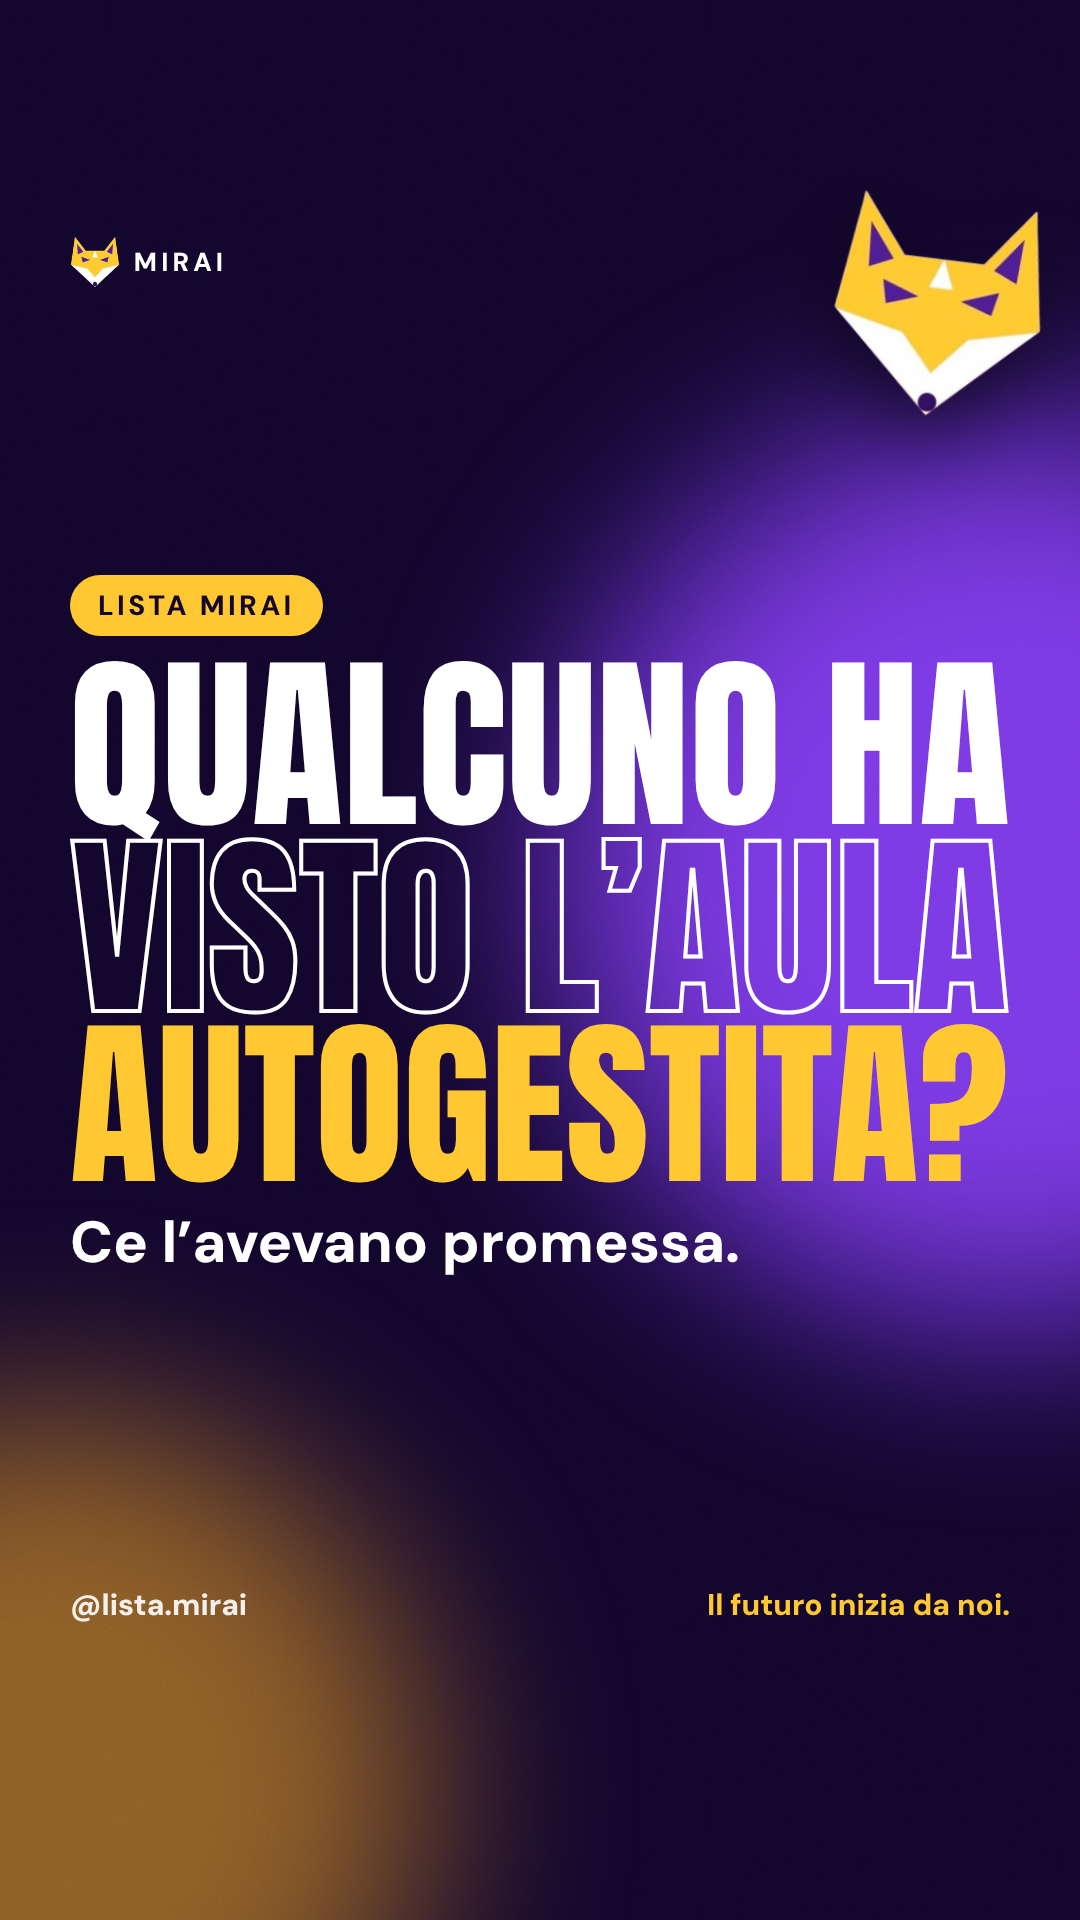
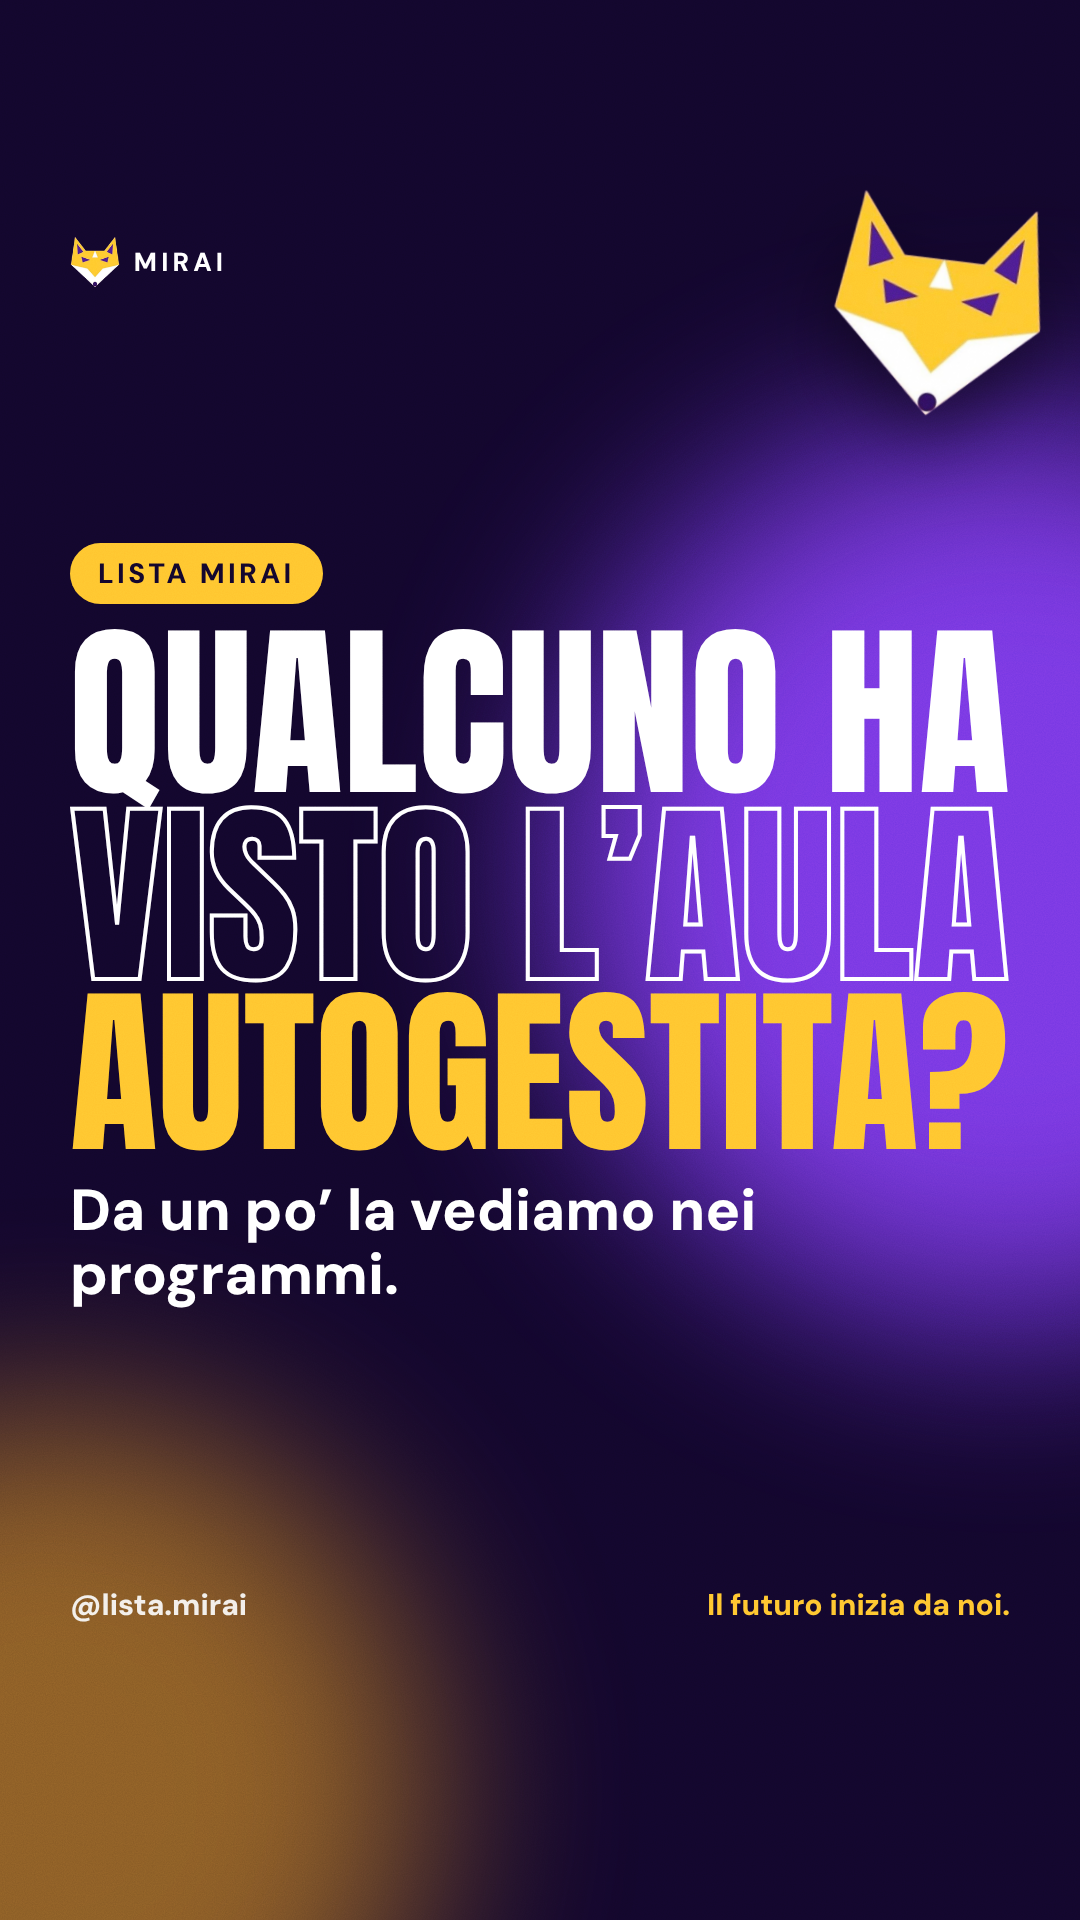
Storia aula autogestita: nuova riga sotto il titolo
Claude-Session: https://claude.ai/code/session_01R2EF8p8tCb9WtiTgwavMfk

Changed region(s): [[0.0611, 0.2812, 0.9472, 0.6875]]

diff --git a/social/storie/build.js b/social/storie/build.js
@@ -29,7 +29,7 @@ const S = [
  { k:P, id:'08-chi-parla-chi-fa', kicker:'Lista Mirai', lines:[['Chi parla.','o'],['Chi fa.','g']], sub:'Indovina chi siamo. 😉', tape:'Chi parla • Chi fa • Chi parla • Chi fa' },
  { k:P, id:'09-non-i-migliori', kicker:'Lista Mirai', lines:[['Non diciamo','w'],['che siamo','w'],['i migliori.','o']], sub:'Lo dicono i 16 progetti.', sticker:'Fatti, non parole 💜' },
  { k:P, id:'10-due-domande', kicker:'Lista Mirai', lines:[['Fatevi','w'],['due','o'],['domande.','g']], sub:'Poi guardate i nostri 16 progetti.', tape:'Servivamo noi • Servivamo noi', fox:'br' },
- { k:P, id:'11-aula-autogestita', kicker:'Lista Mirai', lines:[['Qualcuno ha','w'],['visto l’aula','o'],['autogestita?','g']], sub:'Ce l’avevano promessa.', fox:'br' },
+ { k:P, id:'11-aula-autogestita', kicker:'Lista Mirai', lines:[['Qualcuno ha','w'],['visto l’aula','o'],['autogestita?','g']], sub:'Da un po’ la vediamo nei programmi.', fox:'br' },
 ];
 const blobs = [
  '.b1{width:900px;height:900px;background:#7c3aed;right:-380px;top:420px;opacity:.95}.b2{width:760px;height:760px;background:#ffb020;left:-330px;bottom:-250px;opacity:.5}',

diff --git a/social/storie/storie.html b/social/storie/storie.html
@@ -444,7 +444,7 @@ body{background:#000;font-family:"DM Sans",sans-serif}
   
   <span class="kick">Lista Mirai</span>
   <div class="h"><div class="A fit w" data-max="250">Qualcuno ha</div><div class="A fit o" data-max="250">visto l’aula</div><div class="A fit g" data-max="250">autogestita?</div></div>
-  <div class="sub">Ce l’avevano promessa.</div>
+  <div class="sub">Da un po’ la vediamo nei programmi.</div>
   
   
   
